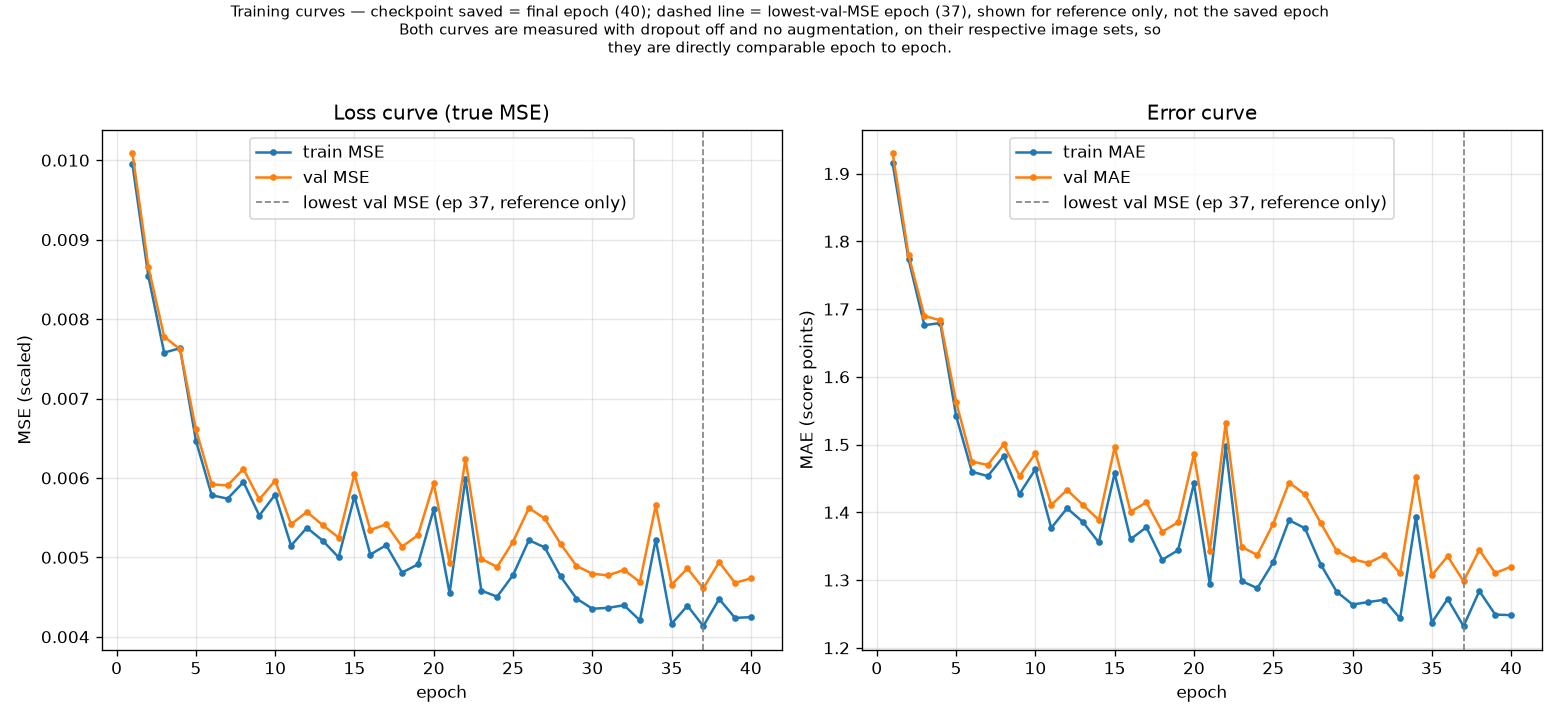
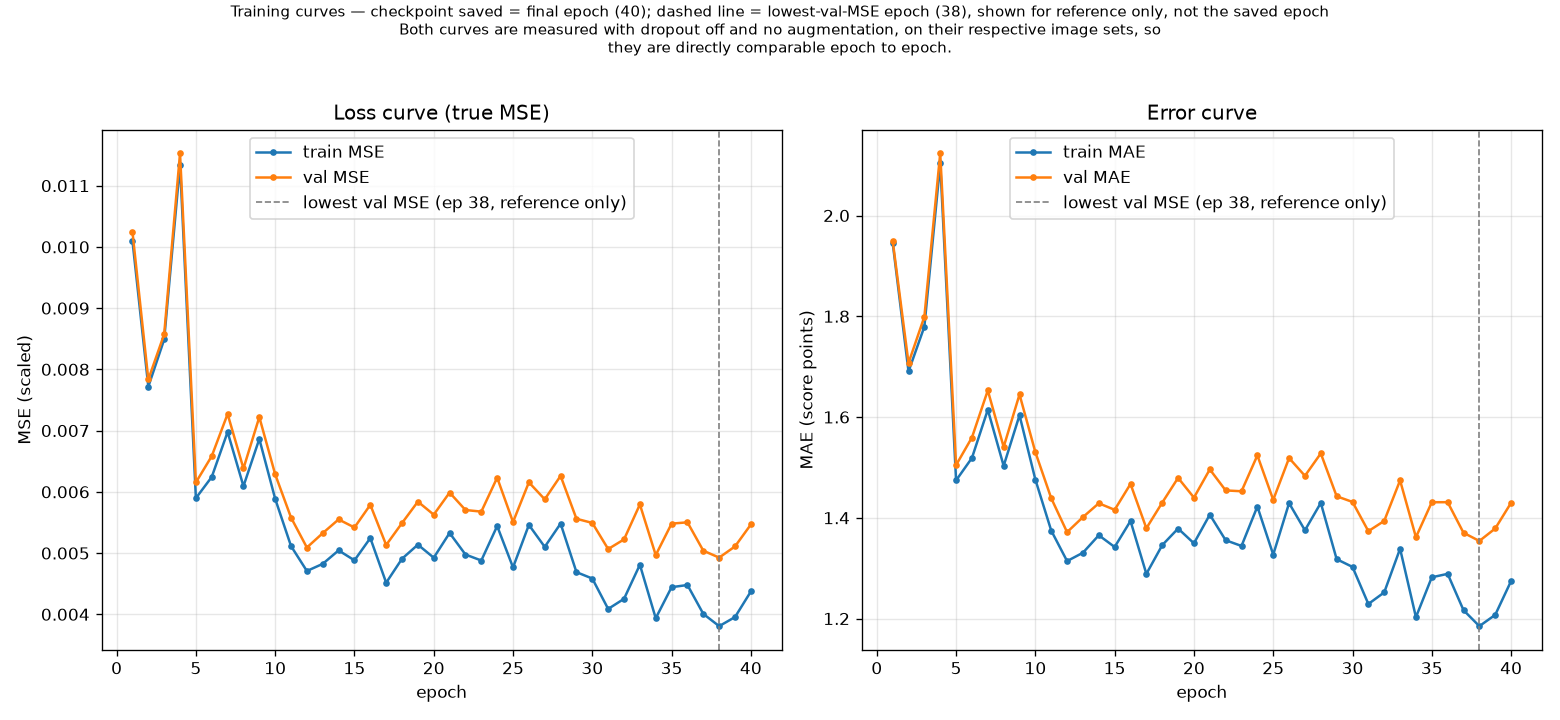
Train and evaluate at native 256x256 without resize or early stopping.
Images stay at FFHQ resolution end-to-end; augmentation no longer crops or
downscales, and training runs the full requested epoch count.

diff --git a/train_quality.py b/train_quality.py
@@ -23,9 +23,9 @@ Anti-overfitting toolbox (all on by default, tune via flags):
   - spatial dropout (Dropout2d) inside the conv stack
   - SE (Squeeze-and-Excitation) channel attention in every conv block
   - weight decay (L2) via AdamW
-  - data augmentation (random crop / flip / colour jitter)
+  - data augmentation (flip / colour jitter / rotation; no cropping or
+    resizing -- images stay at their native 256x256)
   - a deliberately SMALL ResNet (resnet_small) as an alternative to resnet18
-  - early stopping on val MSE (the smoother metric; see the training loop)
   - gradient clipping (--grad-clip 1.0) to prevent training spikes
   - combined MSE + Pearson-correlation loss (--loss combined) to directly
     optimise the correlation metrics the evaluator measures
@@ -148,10 +148,10 @@ class SimpleCNN(nn.Module):
             )
 
         self.features = nn.Sequential(
-            block(3, 32),     # 224 -> 112
-            block(32, 64),    # 112 -> 56
-            block(64, 128),   # 56  -> 28
-            block(128, 256),  # 28  -> 14
+            block(3, 32),     # 256 -> 128
+            block(32, 64),    # 128 -> 64
+            block(64, 128),   # 64  -> 32
+            block(128, 256),  # 32  -> 16
             nn.AdaptiveAvgPool2d(1),  # -> 256 x 1 x 1
         )
         self.head = nn.Sequential(
@@ -222,15 +222,15 @@ class SmallResNet(nn.Module):
         super().__init__()
         w0, w1, w2, w3 = widths
         self.stem = nn.Sequential(
-            nn.Conv2d(3, w0, 3, stride=2, padding=1, bias=False),  # 224 -> 112
+            nn.Conv2d(3, w0, 3, stride=2, padding=1, bias=False),  # 256 -> 128
             nn.BatchNorm2d(w0),
             nn.ReLU(inplace=True),
-            nn.MaxPool2d(2),  # 112 -> 56
+            nn.MaxPool2d(2),  # 128 -> 64
         )
-        self.layer1 = BasicBlock(w0, w0, stride=1, drop=drop)  # 56
-        self.layer2 = BasicBlock(w0, w1, stride=2, drop=drop)  # 56 -> 28
-        self.layer3 = BasicBlock(w1, w2, stride=2, drop=drop)  # 28 -> 14
-        self.layer4 = BasicBlock(w2, w3, stride=2, drop=drop)  # 14 -> 7
+        self.layer1 = BasicBlock(w0, w0, stride=1, drop=drop)  # 64
+        self.layer2 = BasicBlock(w0, w1, stride=2, drop=drop)  # 64 -> 32
+        self.layer3 = BasicBlock(w1, w2, stride=2, drop=drop)  # 32 -> 16
+        self.layer4 = BasicBlock(w2, w3, stride=2, drop=drop)  # 16 -> 8
         self.pool = nn.AdaptiveAvgPool2d(1)
         self.head = nn.Sequential(
             nn.Flatten(),
@@ -411,7 +411,7 @@ def run_epoch(model, loader, criterion, device, span, optimizer=None, grad_clip=
     return total_loss / n, total_sq_err / n, total_abs_err / n
 
 
-def diagnose_overfitting(log_rows, span, requested_epochs=None, patience=None):
+def diagnose_overfitting(log_rows, span):
     """Inspect the per-epoch log and print concrete signs of overfitting.
 
     Shared logic with diagnose_overfitting.py so the same verdict appears both
@@ -443,9 +443,6 @@ def diagnose_overfitting(log_rows, span, requested_epochs=None, patience=None):
     diverging = bool(len(tail) > 3 and tail["val_mse"].iloc[-1] > tail["val_mse"].iloc[0])
 
     print("\n---------------- OVERFITTING DIAGNOSIS ----------------")
-    if requested_epochs and last_epoch < requested_epochs:
-        print(f"  epochs run        : {last_epoch}/{requested_epochs} requested "
-              f"-> stopped early (no val-MSE gain for {patience} epochs after epoch {best_epoch})")
     print(f"  best val MSE      : {best_val_mse:.5f} (val MAE {best_val_mae:.2f}) "
           f"at epoch {best_epoch}/{last_epoch}")
     print(f"  final train MAE   : {float(last['train_mae']):.2f}   "
@@ -459,7 +456,7 @@ def diagnose_overfitting(log_rows, span, requested_epochs=None, patience=None):
     if gap > 0.25 * span:
         flags.append("train MAE is far below val MAE -> classic train/val divergence")
     if wasted > 5:
-        flags.append(f"val peaked at epoch {best_epoch} but training ran {wasted} more epochs -> use early stopping")
+        flags.append(f"val peaked at epoch {best_epoch} but training ran {wasted} more epochs with no val gain")
     if diverging:
         flags.append("val loss trended UP after the best epoch -> over-training")
     if flags:
@@ -471,7 +468,7 @@ def diagnose_overfitting(log_rows, span, requested_epochs=None, patience=None):
     print("-------------------------------------------------------\n", flush=True)
 
 
-def plot_curves(log_rows, path, requested_epochs=None, patience=None):
+def plot_curves(log_rows, path):
     """Plot the TRAINING curves: train vs val MSE and MAE per epoch.
 
     The dashed vertical line marks the epoch with the lowest val MSE, shown
@@ -509,9 +506,6 @@ def plot_curves(log_rows, path, requested_epochs=None, patience=None):
 
     title = (f"Training curves — checkpoint saved = final epoch ({last_epoch}); "
              f"dashed line = lowest-val-MSE epoch ({best_epoch}), shown for reference only, not the saved epoch")
-    if requested_epochs and last_epoch < requested_epochs:
-        title += (f"\nRan {last_epoch}/{requested_epochs} requested epochs — stopped early: "
-                  f"no val-MSE improvement for {patience} epochs after epoch {best_epoch}.")
     note = (
         "Both curves are measured with dropout off and no augmentation, on their respective "
         "image sets, so they are directly comparable epoch to epoch."
@@ -543,9 +537,9 @@ def main():
                     help="override head dropout (>=0); -1 uses the arch default")
     ap.add_argument("--augment", default="strong", choices=["none", "basic", "strong"],
                     help="train-time data augmentation strength")
-    ap.add_argument("--patience", type=int, default=8,
-                    help="early-stop after this many epochs with no val-MSE gain (0=off)")
-    ap.add_argument("--img-size", type=int, default=224)
+    ap.add_argument("--img-size", type=int, default=256,
+                    help="input resolution; FFHQ images are native 256x256, so "
+                         "256 means no downscaling anywhere in the pipeline")
     ap.add_argument("--workers", type=int, default=8)
     ap.add_argument("--val-frac", type=float, default=0.1)
     ap.add_argument("--seed", type=int, default=42)
@@ -664,29 +658,26 @@ def main():
     aug = []
     if args.augment == "strong":
         aug = [
-            transforms.RandomResizedCrop(args.img_size, scale=(0.8, 1.0)),
             transforms.RandomHorizontalFlip(),
             transforms.ColorJitter(0.2, 0.2, 0.2, 0.05),
             transforms.RandomRotation(10),
         ]
     elif args.augment == "basic":
         aug = [
-            transforms.Resize((args.img_size, args.img_size)),
             transforms.RandomHorizontalFlip(),
         ]
     else:  # none
-        aug = [transforms.Resize((args.img_size, args.img_size))]
+        aug = []
 
     train_tf = transforms.Compose(aug + [transforms.ToTensor(), norm])
     eval_tf = transforms.Compose([
-        transforms.Resize((args.img_size, args.img_size)),
         transforms.ToTensor(),
         norm,
     ])
 
     # only the TRAINING dataset carries the aux targets: the aux head is a
     # training-time regulariser, and keeping val main-only means the logged
-    # val loss / early stopping stay comparable to runs without --aux.
+    # val loss logging stays comparable to runs without --aux.
     train_ds = FFHQQualityDataset(train_df, args.root, args.target, train_tf, lo, hi,
                                   aux_cols=aux_cols, aux_lo=aux_lo, aux_hi=aux_hi)
     val_ds = FFHQQualityDataset(val_df, args.root, args.target, eval_tf, lo, hi)
@@ -735,12 +726,9 @@ def main():
     scheduler = torch.optim.lr_scheduler.ReduceLROnPlateau(optimizer, factor=0.5, patience=3)
 
     # ---- training loop ----------------------------------------------------- #
-    # Early stopping still tracks val MSE (the smoother of the two metrics
-    # epoch-to-epoch) to decide when to stop -- but the checkpoint saved to
-    # disk is always the LAST epoch actually run, not the best-val-MSE epoch:
-    # simpler, more defensible model selection (Spencer's request).
+    # Checkpoint saved to disk is always the LAST epoch actually run, not the
+    # best-val-MSE epoch: simpler, more defensible model selection.
     best_val_mse = float("inf")
-    epochs_since_best = 0
     log_rows = []
     for epoch in range(1, args.epochs + 1):
         t0 = time.time()
@@ -769,14 +757,6 @@ def main():
 
         if va_mse < best_val_mse - 1e-9:
             best_val_mse = va_mse
-            epochs_since_best = 0
-        else:
-            epochs_since_best += 1
-            if args.patience and epochs_since_best >= args.patience:
-                print(f"  -> early stop: no val-MSE gain for {args.patience} epochs "
-                      f"(best {best_val_mse:.5f}). Stopping at epoch {epoch}/{args.epochs} requested.",
-                      flush=True)
-                break
 
     state = model.module.state_dict() if hasattr(model, "module") else model.state_dict()
     torch.save({"model_state": state, "arch": args.arch, "target": args.target,
@@ -793,8 +773,8 @@ def main():
 
     # ---- training-set plot + overfitting diagnostics ----------------------- #
     if args.curve:
-        plot_curves(log_rows, args.curve, requested_epochs=args.epochs, patience=args.patience)
-    diagnose_overfitting(log_rows, span, requested_epochs=args.epochs, patience=args.patience)
+        plot_curves(log_rows, args.curve)
+    diagnose_overfitting(log_rows, span)
 
 
 if __name__ == "__main__":

diff --git a/model_architecture.py b/model_architecture.py
@@ -22,7 +22,8 @@ WHAT ELSE IS IN THE CHECKPOINT (all plain Python values, not model code)
 -------------------------------------------------------------------------
     ckpt["arch"]       -> "resnet_small" (confirms which architecture to use)
     ckpt["target"]      -> "UnifiedQualityScore.native" (the OFIQ column it predicts)
-    ckpt["img_size"]    -> 224 (resize input images to this before feeding them in)
+    ckpt["img_size"]    -> 256 (the native FFHQ resolution; images are fed in
+                           at 256x256 with no downscaling)
     ckpt["epoch"]       -> the final epoch trained (the checkpoint is always saved
                            from the last epoch actually run, not from whichever epoch
                            had the lowest validation MSE -- see train_quality.py's
@@ -56,7 +57,6 @@ RUNNING INFERENCE ON A NEW IMAGE
     from torchvision import transforms
 
     tf = transforms.Compose([
-        transforms.Resize((ckpt["img_size"], ckpt["img_size"])),
         transforms.ToTensor(),
         transforms.Normalize([0.5, 0.5, 0.5], [0.5, 0.5, 0.5]),
     ])
@@ -132,15 +132,15 @@ class SmallResNet(nn.Module):
         super().__init__()
         w0, w1, w2, w3 = widths
         self.stem = nn.Sequential(
-            nn.Conv2d(3, w0, 3, stride=2, padding=1, bias=False),  # 224 -> 112
+            nn.Conv2d(3, w0, 3, stride=2, padding=1, bias=False),  # 256 -> 128
             nn.BatchNorm2d(w0),
             nn.ReLU(inplace=True),
-            nn.MaxPool2d(2),  # 112 -> 56
+            nn.MaxPool2d(2),  # 128 -> 64
         )
-        self.layer1 = BasicBlock(w0, w0, stride=1, drop=drop)  # 56
-        self.layer2 = BasicBlock(w0, w1, stride=2, drop=drop)  # 56 -> 28
-        self.layer3 = BasicBlock(w1, w2, stride=2, drop=drop)  # 28 -> 14
-        self.layer4 = BasicBlock(w2, w3, stride=2, drop=drop)  # 14 -> 7
+        self.layer1 = BasicBlock(w0, w0, stride=1, drop=drop)  # 64
+        self.layer2 = BasicBlock(w0, w1, stride=2, drop=drop)  # 64 -> 32
+        self.layer3 = BasicBlock(w1, w2, stride=2, drop=drop)  # 32 -> 16
+        self.layer4 = BasicBlock(w2, w3, stride=2, drop=drop)  # 16 -> 8
         self.pool = nn.AdaptiveAvgPool2d(1)
         self.head = nn.Sequential(
             nn.Flatten(),

diff --git a/evaluate.py b/evaluate.py
@@ -156,7 +156,7 @@ def main():
     ckpt = torch.load(args.model, map_location=device, weights_only=False)
     arch = ckpt.get("arch", "simple")
     target_col = ckpt.get("target", "UnifiedQualityScore.native")
-    img_size = ckpt.get("img_size", 224)
+    img_size = ckpt.get("img_size", 256)
     # scaling: new checkpoints carry the train-set (lo, hi); old ones used /100.
     lo = ckpt.get("target_lo", 0.0)
     hi = ckpt.get("target_hi", 100.0)
@@ -195,8 +195,7 @@ def main():
         norm = transforms.Normalize([0.485, 0.456, 0.406], [0.229, 0.224, 0.225])
     else:
         norm = transforms.Normalize([0.5, 0.5, 0.5], [0.5, 0.5, 0.5])
-    tf = transforms.Compose([transforms.Resize((img_size, img_size)),
-                             transforms.ToTensor(), norm])
+    tf = transforms.Compose([transforms.ToTensor(), norm])
 
     model = build_model(arch, head_drop=ckpt.get("head_drop"),
                         head_act=ckpt.get("head_act", "sigmoid"),

diff --git a/Technical Reports/scripts/generate_figures.py b/Technical Reports/scripts/generate_figures.py
@@ -175,7 +175,7 @@ def fig_architecture_schematic():
     ax.set_ylim(0, 4)
     ax.axis("off")
     boxes = [
-        (0.2, 1.2, 1.6, 1.6, "Input\n224×224×3"),
+        (0.2, 1.2, 1.6, 1.6, "Input\n256×256×3"),
         (2.1, 1.2, 1.6, 1.6, "Stem\n16 ch"),
         (4.0, 1.2, 1.6, 1.6, "Res×1\n16"),
         (5.9, 1.2, 1.6, 1.6, "Res×1\n32"),